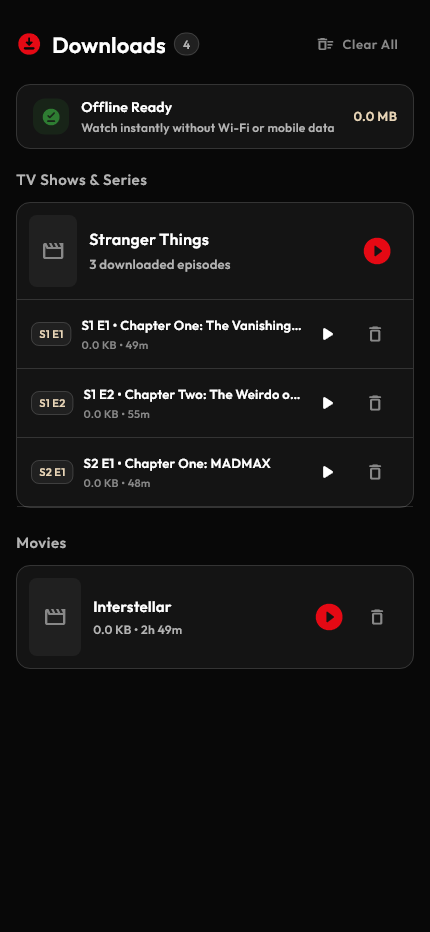
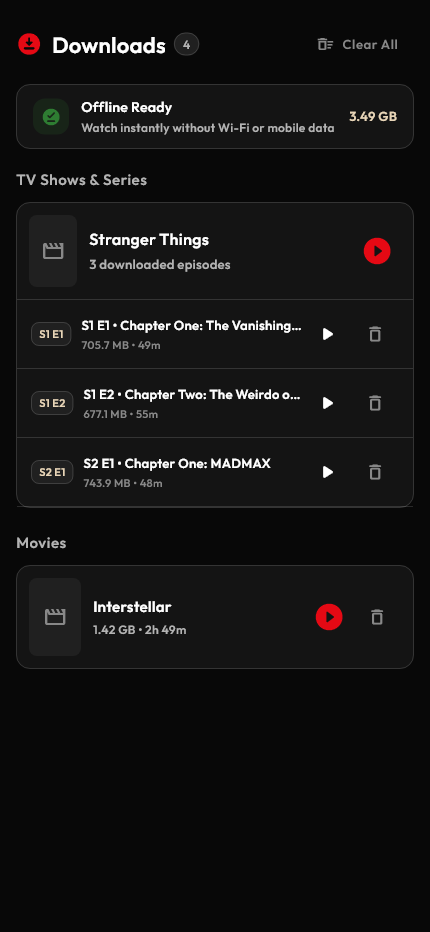
fix(offline): resolve blob lifecycle, direct playback route, and realistic test sizes

diff --git a/lib/features/anime/presentation/widgets/animex/animex_watch_page.dart b/lib/features/anime/presentation/widgets/animex/animex_watch_page.dart
@@ -265,17 +265,27 @@ class _AnimeXWatchPageState extends State<AnimeXWatchPage>
 
   Future<void> _checkOfflinePlayback() async {
     final animeId = _watchItem.anilistId ?? _watchItem.tmdbId;
-    final offlineId = 'anime_${animeId}_s1_e$_playerEpisode';
-    final offlineItem = OfflineMediaService.instance.getItem(offlineId);
+    var offlineItem =
+        OfflineMediaService.instance.getItem('anime_${animeId}_s1_e$_playerEpisode');
+    if (offlineItem == null && _watchItem.tmdbId > 0) {
+      offlineItem = OfflineMediaService.instance
+          .getItem('anime_${_watchItem.tmdbId}_s1_e$_playerEpisode');
+    }
     if (offlineItem != null && offlineItem.isCompleted) {
       final url = await OfflineMediaService.instance.getPlayableUrl(offlineItem);
       if (mounted && url != null && url.isNotEmpty) {
+        if (_offlineBlobUrl != null && _offlineBlobUrl != url) {
+          unawaited(OfflineMediaStorage.instance.revokeBlobUrl(_offlineBlobUrl!));
+        }
         setState(() => _offlineBlobUrl = url);
         return;
       }
     }
-    if (_offlineBlobUrl != null && mounted) {
-      setState(() => _offlineBlobUrl = null);
+    if (_offlineBlobUrl != null) {
+      unawaited(OfflineMediaStorage.instance.revokeBlobUrl(_offlineBlobUrl!));
+      if (mounted) {
+        setState(() => _offlineBlobUrl = null);
+      }
     }
   }
 

diff --git a/lib/features/manga/presentation/screens/katana_reader_screen.dart b/lib/features/manga/presentation/screens/katana_reader_screen.dart
@@ -234,13 +234,17 @@ class _KatanaReaderScreenState extends State<KatanaReaderScreen> {
     SystemChrome.setEnabledSystemUIMode(SystemUiMode.immersiveSticky);
   }
 
-  @override
-  void dispose() {
+  void _revokeCurrentPageBlobs() {
     for (final p in _pages) {
       if (p.startsWith('blob:')) {
         unawaited(OfflineMediaStorage.instance.revokeBlobUrl(p));
       }
     }
+  }
+
+  @override
+  void dispose() {
+    _revokeCurrentPageBlobs();
     _pagePillTimer?.cancel();
     _scrollController.removeListener(_onWebtoonScroll);
     _scrollController.dispose();
@@ -386,6 +390,7 @@ class _KatanaReaderScreenState extends State<KatanaReaderScreen> {
         resolvedPages.add(blob ?? offlineItem.pageUrls[i - 1]);
       }
       if (!mounted) return;
+      _revokeCurrentPageBlobs();
       setState(() {
         _pages = resolvedPages;
         _loading = false;
@@ -429,6 +434,7 @@ class _KatanaReaderScreenState extends State<KatanaReaderScreen> {
 
     final targetPage = resumePage.clamp(1, pages.length);
 
+    _revokeCurrentPageBlobs();
     setState(() {
       _pages = pages;
       _loading = false;

diff --git a/test/features/cinema/offline_downloads_proof_test.dart b/test/features/cinema/offline_downloads_proof_test.dart
@@ -56,6 +56,7 @@ void main() {
         title: 'Interstellar',
         subtitle: 'Movie • 2014',
         durationSeconds: 10140,
+        directByteCount: 1520000000,
         directBytes: Uint8List.fromList([1, 2]),
       );
       await service.startDownloadMedia(
@@ -67,6 +68,7 @@ void main() {
         season: 1,
         episode: 1,
         durationSeconds: 2940,
+        directByteCount: 740000000,
         directBytes: Uint8List.fromList([3, 4]),
       );
       await service.startDownloadMedia(
@@ -78,6 +80,7 @@ void main() {
         season: 1,
         episode: 2,
         durationSeconds: 3300,
+        directByteCount: 710000000,
         directBytes: Uint8List.fromList([5, 6]),
       );
       await service.startDownloadMedia(
@@ -89,6 +92,7 @@ void main() {
         season: 2,
         episode: 1,
         durationSeconds: 2880,
+        directByteCount: 780000000,
         directBytes: Uint8List.fromList([7, 8]),
       );
     });

diff --git a/lib/core/services/offline_media/offline_media_service.dart b/lib/core/services/offline_media/offline_media_service.dart
@@ -166,8 +166,9 @@ class OfflineMediaService extends ChangeNotifier {
     String coverUrl = '',
     String? sourceUrl,
     int? durationSeconds,
-    int estimatedBytes = 350 * 1024 * 1024,
+    int estimatedBytes = 0,
     Uint8List? directBytes,
+    int? directByteCount,
   }) async {
     final existing = _items[id];
     if (existing != null &&
@@ -213,6 +214,15 @@ class OfflineMediaService extends ChangeNotifier {
 
     if (directBytes != null) {
       await _storage.saveMediaBlob(id, directBytes);
+      final finalBytes = directByteCount ?? directBytes.lengthInBytes;
+      _items[id] = initial.copyWith(
+        status: OfflineDownloadStatus.completed,
+        progress: 1.0,
+        downloadedBytes: finalBytes,
+        totalBytes: finalBytes,
+      );
+      notifyListeners();
+      await _saveToStorage();
       return;
     }
 

diff --git a/lib/features/cinema/presentation/widgets/tabs/cinema_downloads_tab.dart b/lib/features/cinema/presentation/widgets/tabs/cinema_downloads_tab.dart
@@ -603,10 +603,11 @@ class CinemaDownloadsTab extends StatelessWidget {
             ? '/cinema/video/${item.mediaId}?type=tv&season=${item.season ?? 1}&episode=${item.episode ?? 1}&title=${Uri.encodeComponent(item.title)}'
             : '/cinema/video/${item.mediaId}?type=movie&title=${Uri.encodeComponent(item.title)}',
       );
+      return;
     } catch (_) {
       // In isolated widget tests without GoRouter
+      onPlayMedia(mediaItem);
     }
-    onPlayMedia(mediaItem);
   }
 
   void _confirmClearAll(BuildContext context, OfflineMediaService service) {
